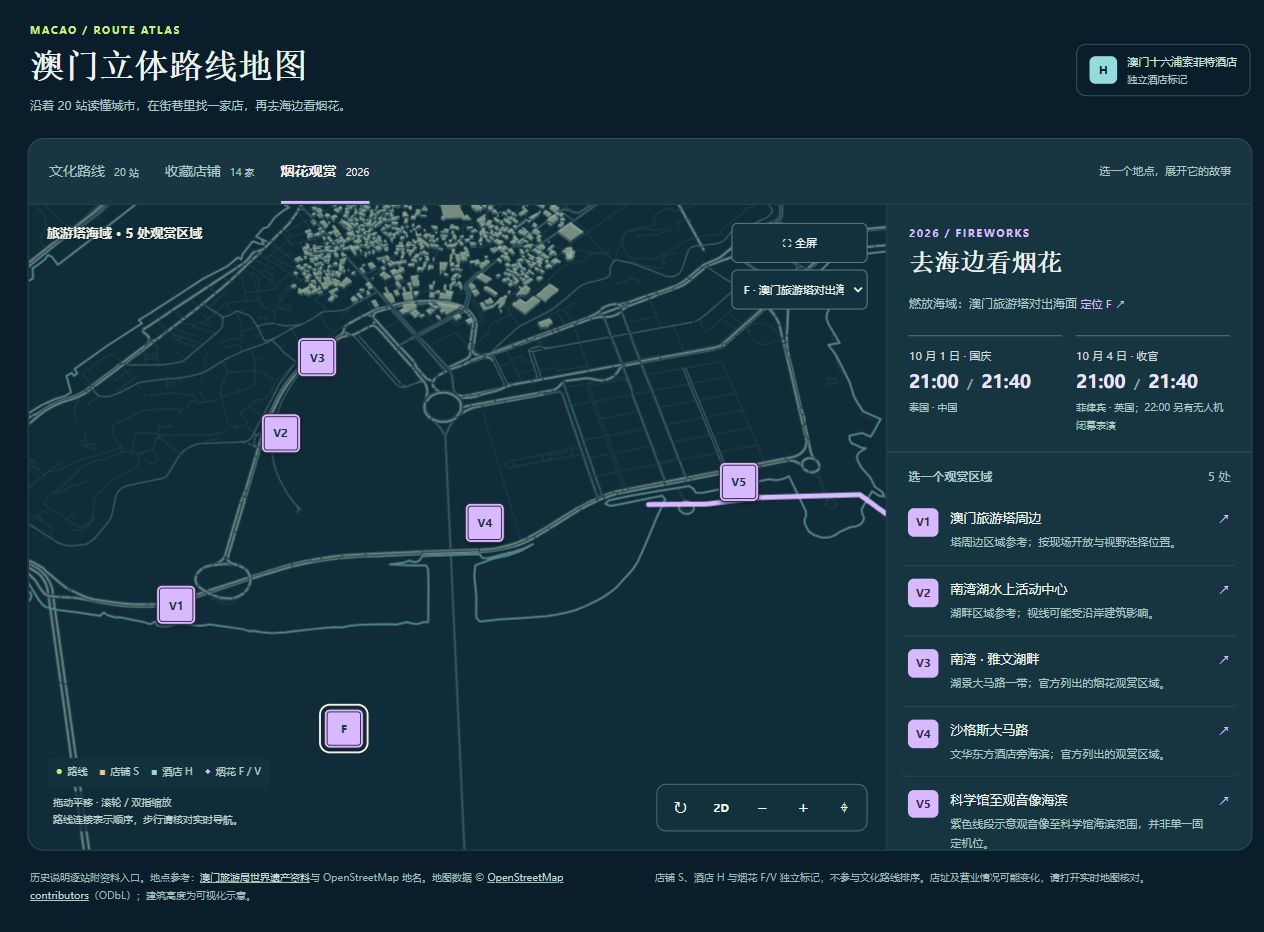
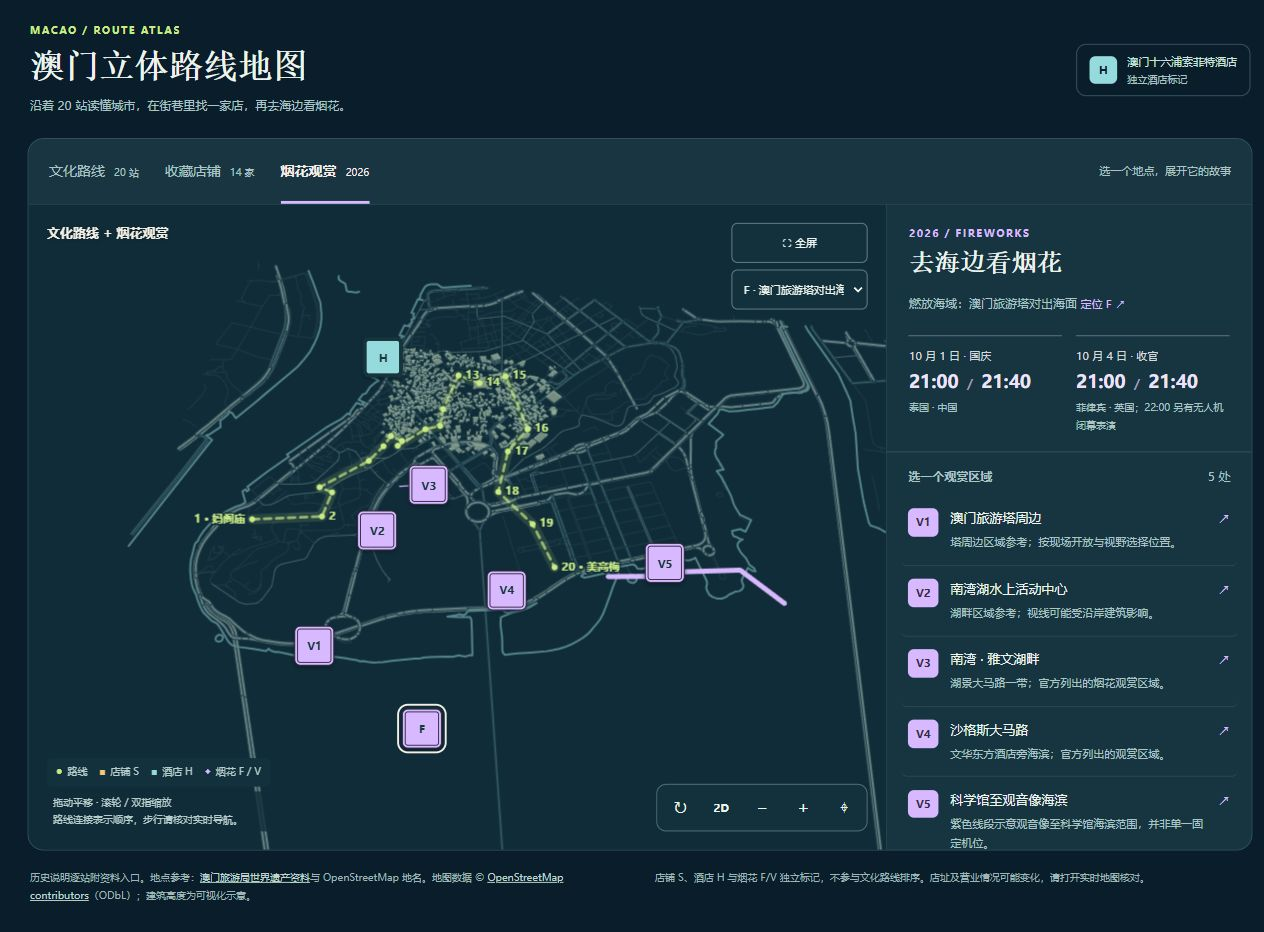
Keep heritage route visible beneath shop and fireworks views

diff --git a/src/app.js b/src/app.js
@@ -15,9 +15,9 @@ const streets=atlas.roads;
 const shores=atlas.coasts;
 const buildings=atlas.buildings.map(b=>({p:b[0],h:b[1],y:b[0].reduce((a,q)=>a+q[1],0)/b[0].length})).sort((a,b)=>b.y-a.y);
 let selected=1,stage='all';const canvas=document.getElementById('route-map'),ctx=canvas.getContext('2d');let W=0,H=0,dpr=1,angle=-.16,zoom=1,tilted=true,panX=0,panY=0,pending=0,hits=[],pointers=new Map(),tap=null,pinch=null;
-const active=()=>stage==='all'?route:route.filter(s=>s.stage===Number(stage));
+const active=()=>['all','shops','fireworks'].includes(stage)?route:route.filter(s=>s.stage===Number(stage));
 function camera(){
- const pts=(stage==='shops'?mappedShops:stage==='fireworks'?fireworkPlaces:active()).map(s=>s.p);
+ const pts=(stage==='shops'?[...route,hotel,...mappedShops]:stage==='fireworks'?[...route,hotel,...fireworkPlaces]:active()).map(s=>s.p);
  if(stage==='all')pts.push(hotel.p);
  const xs=pts.map(p=>p[0]),ys=pts.map(p=>p[1]);
  const C={center:[(Math.min(...xs)+Math.max(...xs))/2,(Math.min(...ys)+Math.max(...ys))/2],scale:1,tilt:tilted?.54:0};
@@ -62,13 +62,29 @@ function draw(){if(!W)return;const C=camera();ctx.setTransform(dpr,0,0,dpr,0,0);
  for(const [r,p] of streets){path(p,0,C);ctx.lineCap='round';ctx.lineJoin='round';const width=r<2?Math.max(2,7*C.scale):r<4?Math.max(1,4*C.scale):Math.max(.5,2*C.scale);if(r<3){ctx.lineWidth=width+2;ctx.strokeStyle='#193b47';ctx.stroke()}ctx.lineWidth=width;ctx.strokeStyle=r<2?'#698080':r<4?'#3f626a':'#274954';ctx.stroke()}
  for(const p of shores){path(p,0,C);ctx.lineWidth=2;ctx.strokeStyle='#54848a';ctx.stroke()}
  for(const b of buildings){let p=b.p;if(p.length<4)continue;let bottom=p.map(q=>project(q,0,C)),top=p.map(q=>project(q,b.h,C));for(let i=0;i<p.length-1;i++){ctx.beginPath();ctx.moveTo(bottom[i][0],bottom[i][1]);ctx.lineTo(bottom[i+1][0],bottom[i+1][1]);ctx.lineTo(top[i+1][0],top[i+1][1]);ctx.lineTo(top[i][0],top[i][1]);ctx.closePath();ctx.fillStyle=i%2?'rgba(72,106,108,.80)':'rgba(40,76,86,.85)';ctx.fill()}ctx.beginPath();top.forEach((q,i)=>i?ctx.lineTo(q[0],q[1]):ctx.moveTo(q[0],q[1]));ctx.closePath();ctx.fillStyle='rgba(180,199,172,.62)';ctx.fill();ctx.strokeStyle='rgba(201,217,189,.22)';ctx.lineWidth=.5;ctx.stroke()}
- let seq=active();ctx.beginPath();seq.forEach((s,i)=>{let q=project(s.p,30,C);i?ctx.lineTo(q[0],q[1]):ctx.moveTo(q[0],q[1])});ctx.strokeStyle='#c9eb86';ctx.globalAlpha=.13;ctx.lineWidth=10;ctx.lineCap='round';ctx.lineJoin='round';ctx.stroke();ctx.globalAlpha=.95;ctx.setLineDash([7,5]);ctx.lineWidth=2.7;ctx.stroke();ctx.setLineDash([]);ctx.globalAlpha=1;
+ const reference=stage==='shops'||stage==='fireworks',seq=active();
+ ctx.beginPath();seq.forEach((s,i)=>{let q=project(s.p,reference?0:30,C);i?ctx.lineTo(q[0],q[1]):ctx.moveTo(q[0],q[1])});ctx.strokeStyle='#c9eb86';ctx.globalAlpha=.13;ctx.lineWidth=10;ctx.lineCap='round';ctx.lineJoin='round';ctx.stroke();ctx.globalAlpha=reference?.7:.95;ctx.setLineDash([7,5]);ctx.lineWidth=2.7;ctx.stroke();ctx.setLineDash([]);ctx.globalAlpha=1;
  if(stage==='fireworks'){
    path(fireworks.views[4].coast.map(p=>toWorld(...p)),0,C);
    ctx.strokeStyle='#d8b9ff';ctx.lineWidth=5;ctx.stroke();
  }
- hits=[];const used=[];
- const visible=[...seq,hotel,...(stage==='fireworks'?fireworkPlaces:stage==='shops'?mappedShops:[])];
+ hits=[];const used=reference?seq.map(s=>project(s.p,0,C)):[];
+ const visible=[...(reference?[]:seq),hotel,...(stage==='fireworks'?fireworkPlaces:stage==='shops'?mappedShops:[])];
+ if(reference){
+   // Keep route dots at their geographic positions; labels appear where the current zoom gives them room.
+   const points=seq.map(s=>project(s.p,0,C));
+   points.forEach((q,i)=>{
+     if(q[0]<0||q[0]>W||q[1]<0||q[1]>H)return;
+     const s=seq[i],space=points.every((p,j)=>i===j||Math.hypot(p[0]-q[0],p[1]-q[1])>22);
+     ctx.beginPath();ctx.arc(q[0],q[1],selected===s.id?5:3,0,Math.PI*2);ctx.fillStyle='#c9eb86';ctx.fill();
+     if(space||s.id===1||s.id===20){
+       const label=s.id===1?'1 · 妈阁庙':s.id===20?'20 · 美高梅':String(s.id);
+       const x=q[0]+(s.id===1?-7:7);
+       ctx.font='600 11px system-ui';ctx.textAlign=s.id===1?'right':'left';ctx.textBaseline='middle';ctx.lineWidth=3;ctx.strokeStyle='#102c38';ctx.strokeText(label,x,q[1]);ctx.fillText(label,x,q[1]);
+     }
+     hits.push({id:s.id,x:q[0],y:q[1]});
+   });
+ }
  for(const button of markerButtons.values())button.hidden=true;
  for(const s of visible){
    const foot=project(s.p,0,C),origin=project(s.p,62,C);
@@ -104,8 +120,6 @@ function locate(id){
  const s=allPlaces.find(x=>String(x.id)===String(id));if(!s)return;
  if(typeof s.id==='number'){openHistory(s.id);return}
  setStage(s.kind==='shop'?'shops':s.kind==='firework'?'fireworks':'all');
- if(s.kind==='shop')zoom=2.2;
- const q=project(s.p,62,camera());panX=W*.43-q[0];panY=H*.44-q[1];
  select(s.id,true);
  // The map and list already share a workspace; selecting a place keeps the page still.
  document.getElementById('map-detail-close').focus({preventScroll:true});
@@ -123,7 +137,7 @@ function setStage(v){
  document.querySelectorAll('[data-view]').forEach(b=>{const on=b.dataset.view===view;b.setAttribute('aria-selected',String(on));b.tabIndex=on?0:-1});
  for(const [name,id] of [['route','panel-route'],['shops','stores'],['fireworks','fireworks']])document.getElementById(id).hidden=name!==view;
  document.querySelector('.stage-tabs').hidden=view!=='route';
- document.getElementById('map-caption').textContent=view==='shops'?'澳门半岛 · 氹仔 · 路氹':view==='fireworks'?'旅游塔海域 · 5 处观赏区域':'妈阁庙 → 美高梅';
+ document.getElementById('map-caption').textContent=view==='shops'?'文化路线 + 收藏店铺':view==='fireworks'?'文化路线 + 烟花观赏':'妈阁庙 → 美高梅';
  document.querySelectorAll('.stage-tabs button').forEach(b=>{b.classList.toggle('active',b.dataset.stage===v);b.setAttribute('aria-pressed',String(b.dataset.stage===v))});
  document.querySelectorAll('.route-row').forEach(b=>b.hidden=view==='route'&&v!=='all'&&route[Number(b.dataset.routeId)-1].stage!==Number(v));
  select(v==='shops'?mappedShops[0].id:v==='fireworks'?fireworks.launch.id:active()[0].id);
@@ -142,7 +156,7 @@ canvas.addEventListener('wheel',e=>{e.preventDefault();zoom=Math.max(.65,Math.mi
 
 const historyOverlay=document.getElementById('history-overlay');let historyOpenId=null,historyReturnFocus=null;
 function renderHistory(id){const s=route[id-1];if(!s)return;historyOpenId=id;document.getElementById('history-kicker').textContent=`沿途档案 · ${String(id).padStart(2,'0')} / 20 · ${stageNames[s.stage]}`;document.getElementById('history-title').textContent=s.name;document.getElementById('history-era').textContent=s.era;document.getElementById('history-dek').textContent=s.dek;document.getElementById('history-prose').innerHTML=s.story.map(p=>`<p>${p}</p>`).join('');document.getElementById('history-source').innerHTML=`资料来源：<a href="${s.source}" target="_blank" rel="noreferrer">${s.sourceLabel} ↗</a><br>文字据资料整理；街道与现代酒店的沿革按各自来源表述。`;document.getElementById('history-count').textContent=`${String(id).padStart(2,'0')} / 20`;document.getElementById('history-prev').disabled=id===1;document.getElementById('history-next').disabled=id===20;document.getElementById('history-scroll').scrollTop=0}
-function openHistory(id){const s=route[id-1];if(!s)return;const firstOpen=historyOverlay.hidden;if(firstOpen)historyReturnFocus=document.activeElement;if(stage!=='all'&&stage!==String(s.stage))setStage(String(s.stage));select(id);renderHistory(id);[...document.querySelector('.map-surface').children].filter(e=>e!==historyOverlay).forEach(e=>e.inert=true);document.querySelector('.workspace-nav').inert=true;document.querySelector('.route-panel').inert=true;historyOverlay.hidden=false;document.body.classList.add('history-active');if(firstOpen)document.getElementById('history-close').focus()}
+function openHistory(id){const s=route[id-1];if(!s)return;const firstOpen=historyOverlay.hidden;if(firstOpen)historyReturnFocus=document.activeElement;if(!['all','shops','fireworks'].includes(stage)&&stage!==String(s.stage))setStage(String(s.stage));select(id);renderHistory(id);[...document.querySelector('.map-surface').children].filter(e=>e!==historyOverlay).forEach(e=>e.inert=true);document.querySelector('.workspace-nav').inert=true;document.querySelector('.route-panel').inert=true;historyOverlay.hidden=false;document.body.classList.add('history-active');if(firstOpen)document.getElementById('history-close').focus()}
 function closeHistory(){if(historyOverlay.hidden)return;historyOverlay.hidden=true;[...document.querySelector('.map-surface').children].forEach(e=>e.inert=false);document.querySelector('.workspace-nav').inert=false;document.querySelector('.route-panel').inert=false;historyOpenId=null;document.body.classList.remove('history-active');historyReturnFocus?.focus?.()}
 document.getElementById('history-close').onclick=closeHistory;
 historyOverlay.addEventListener('click',e=>{if(e.target===historyOverlay)closeHistory()});

diff --git a/index.html b/index.html
@@ -5,7 +5,7 @@
   <meta name="viewport" content="width=device-width,initial-scale=1">
   <title>澳门立体路线地图｜20 站城市漫游</title>
   <meta name="description" content="澳门文化路线、独立店铺收藏与 2026 烟花观赏地图">
-  <link rel="stylesheet" href="./src/styles.css?v=ee70c33">
+  <link rel="stylesheet" href="./src/styles.css?v=route-reference-1">
 </head>
 <body>
 <a class="skip-link" href="#map-panel">跳到地图与资料</a>
@@ -56,6 +56,6 @@
 </main>
 <script src="./data/map.js"></script>
 <script src="./data/content.js"></script>
-<script src="./src/app.js?v=ee70c33"></script>
+<script src="./src/app.js?v=route-reference-1"></script>
 </body>
 </html>

diff --git a/test_site.py b/test_site.py
@@ -81,6 +81,7 @@ vm.runInContext(`
    }
    if(view==='route'&&hits.some(h=>String(h.id).startsWith('shop-')))throw Error('Route markers mixed with shop view');
    if(view==='route'&&document.querySelectorAll('.route-row').filter(r=>!r.hidden).length!==active().length)throw Error('Route segment list mismatch');
+   if(view!=='route'&&hits.filter(h=>typeof h.id==='number').length!==20)throw Error('Missing route reference: '+v);
  }
  if(hits.filter(h=>String(h.id).startsWith('view-')).length!==5)throw Error('Missing viewing marker');
  for(const [width,height] of [[320,400],[375,400],[760,600],[800,710]]){
@@ -89,13 +90,16 @@ vm.runInContext(`
      setStage(view);
      const count=view==='all'?hits.filter(h=>typeof h.id==='number').length:view==='shops'?hits.filter(h=>String(h.id).startsWith('shop-')).length:hits.filter(h=>String(h.id).startsWith('view-')).length;
      if(count!==(view==='all'?20:view==='shops'?mappedShops.length:5))throw Error('Clipped markers at '+width+' / '+view);
-     for(let i=0;i<hits.length;i++)for(let j=i+1;j<hits.length;j++){
-       if(Math.hypot(hits[i].x-hits[j].x,hits[i].y-hits[j].y)<39.9)throw Error('Overlapping marker targets at '+width+' / '+view);
+     if(hits.filter(h=>typeof h.id==='number').length!==20)throw Error('Route reference clipped at '+width+' / '+view);
+     const buttons=hits.filter(h=>!markerButtons.get(h.id).hidden);
+     for(let i=0;i<buttons.length;i++)for(let j=i+1;j<buttons.length;j++){
+       if(Math.hypot(buttons[i].x-buttons[j].x,buttons[i].y-buttons[j].y)<39.9)throw Error('Overlapping marker targets at '+width+' / '+view);
      }
    }
  }
  size.width=800;size.height=710;resize();
- for(const s of mappedShops){locate(s.id);if(selected!==s.id||!hits.some(h=>h.id===s.id))throw Error('Store not reachable: '+s.id)}
+ for(const s of mappedShops){locate(s.id);if(selected!==s.id||!hits.some(h=>h.id===s.id))throw Error('Store not reachable: '+s.id);if(zoom!==1||hits.filter(h=>typeof h.id==='number').length!==20)throw Error('Store selection lost route context')}
+ setStage('fireworks');openHistory(13);closeHistory();if(stage!=='fireworks')throw Error('Reading a reference station changed the overlay');
  setStage('all');openHistory(13);
  if(historyOverlay.hidden||historyOpenId!==13)throw Error('History did not open');
  if(!document.querySelector('.workspace-nav').inert||!document.querySelector('.route-panel').inert)throw Error('History background remained interactive');

diff --git a/README.md b/README.md
@@ -18,7 +18,7 @@ python3 -m http.server 8000
 
 顶部的“文化路线 / 收藏店铺 / 烟花观赏”同时切换地图与资料面板。桌面并排显示，手机上下排列，分类入口在滚动时保持可见。烟花日期与场次固定在面板顶部，观赏点列表单独滚动；无需翻到页面底部查找。分类按钮支持方向键、Home 和 End 切换。
 
-地图支持拖动平移、滚轮或双指缩放、旋转、切换 2D/3D 视角。文化路线可以查看全程或三个分段，站点列表随分段更新；店铺与烟花在各自分类显示独立标记，酒店以 H 标出。地图标记通过引线连接实际位置，密集区域的编号会适度避让。点击“全屏”让地图与联动资料铺满当前页面，分类入口保持可用；点击退出按钮即可恢复。
+地图支持拖动平移、滚轮或双指缩放、旋转、切换 2D/3D 视角。文化路线可以查看全程或三个分段，站点列表随分段更新；店铺与烟花在各自分类显示独立标记，同时保留绿色文化路线与 20 个站点作为位置参照，酒店以 H 标出。概览取景同时包含文化路线与当前分类地点；点击店铺或观赏点不会自动放大而丢失路线参照。路线参照点按真实位置绘制，缩放到足够空间时显示站号，起点妈阁庙与终点美高梅另有文字标识。地图标记通过引线连接实际位置，密集区域的编号会适度避让。点击“全屏”让地图与联动资料铺满当前页面，分类入口保持可用；点击退出按钮即可恢复。
 
 点击地图编号或站点名称可以阅读历史档案，档案内可按顺序切换上一站和下一站。店铺列表的“地图定位”和地图内的“选择地点”菜单支持跳转到店铺、酒店或观赏区域；全屏中也可切换分类、查看详情。地图上的地点标记支持键盘焦点与点击。
 
